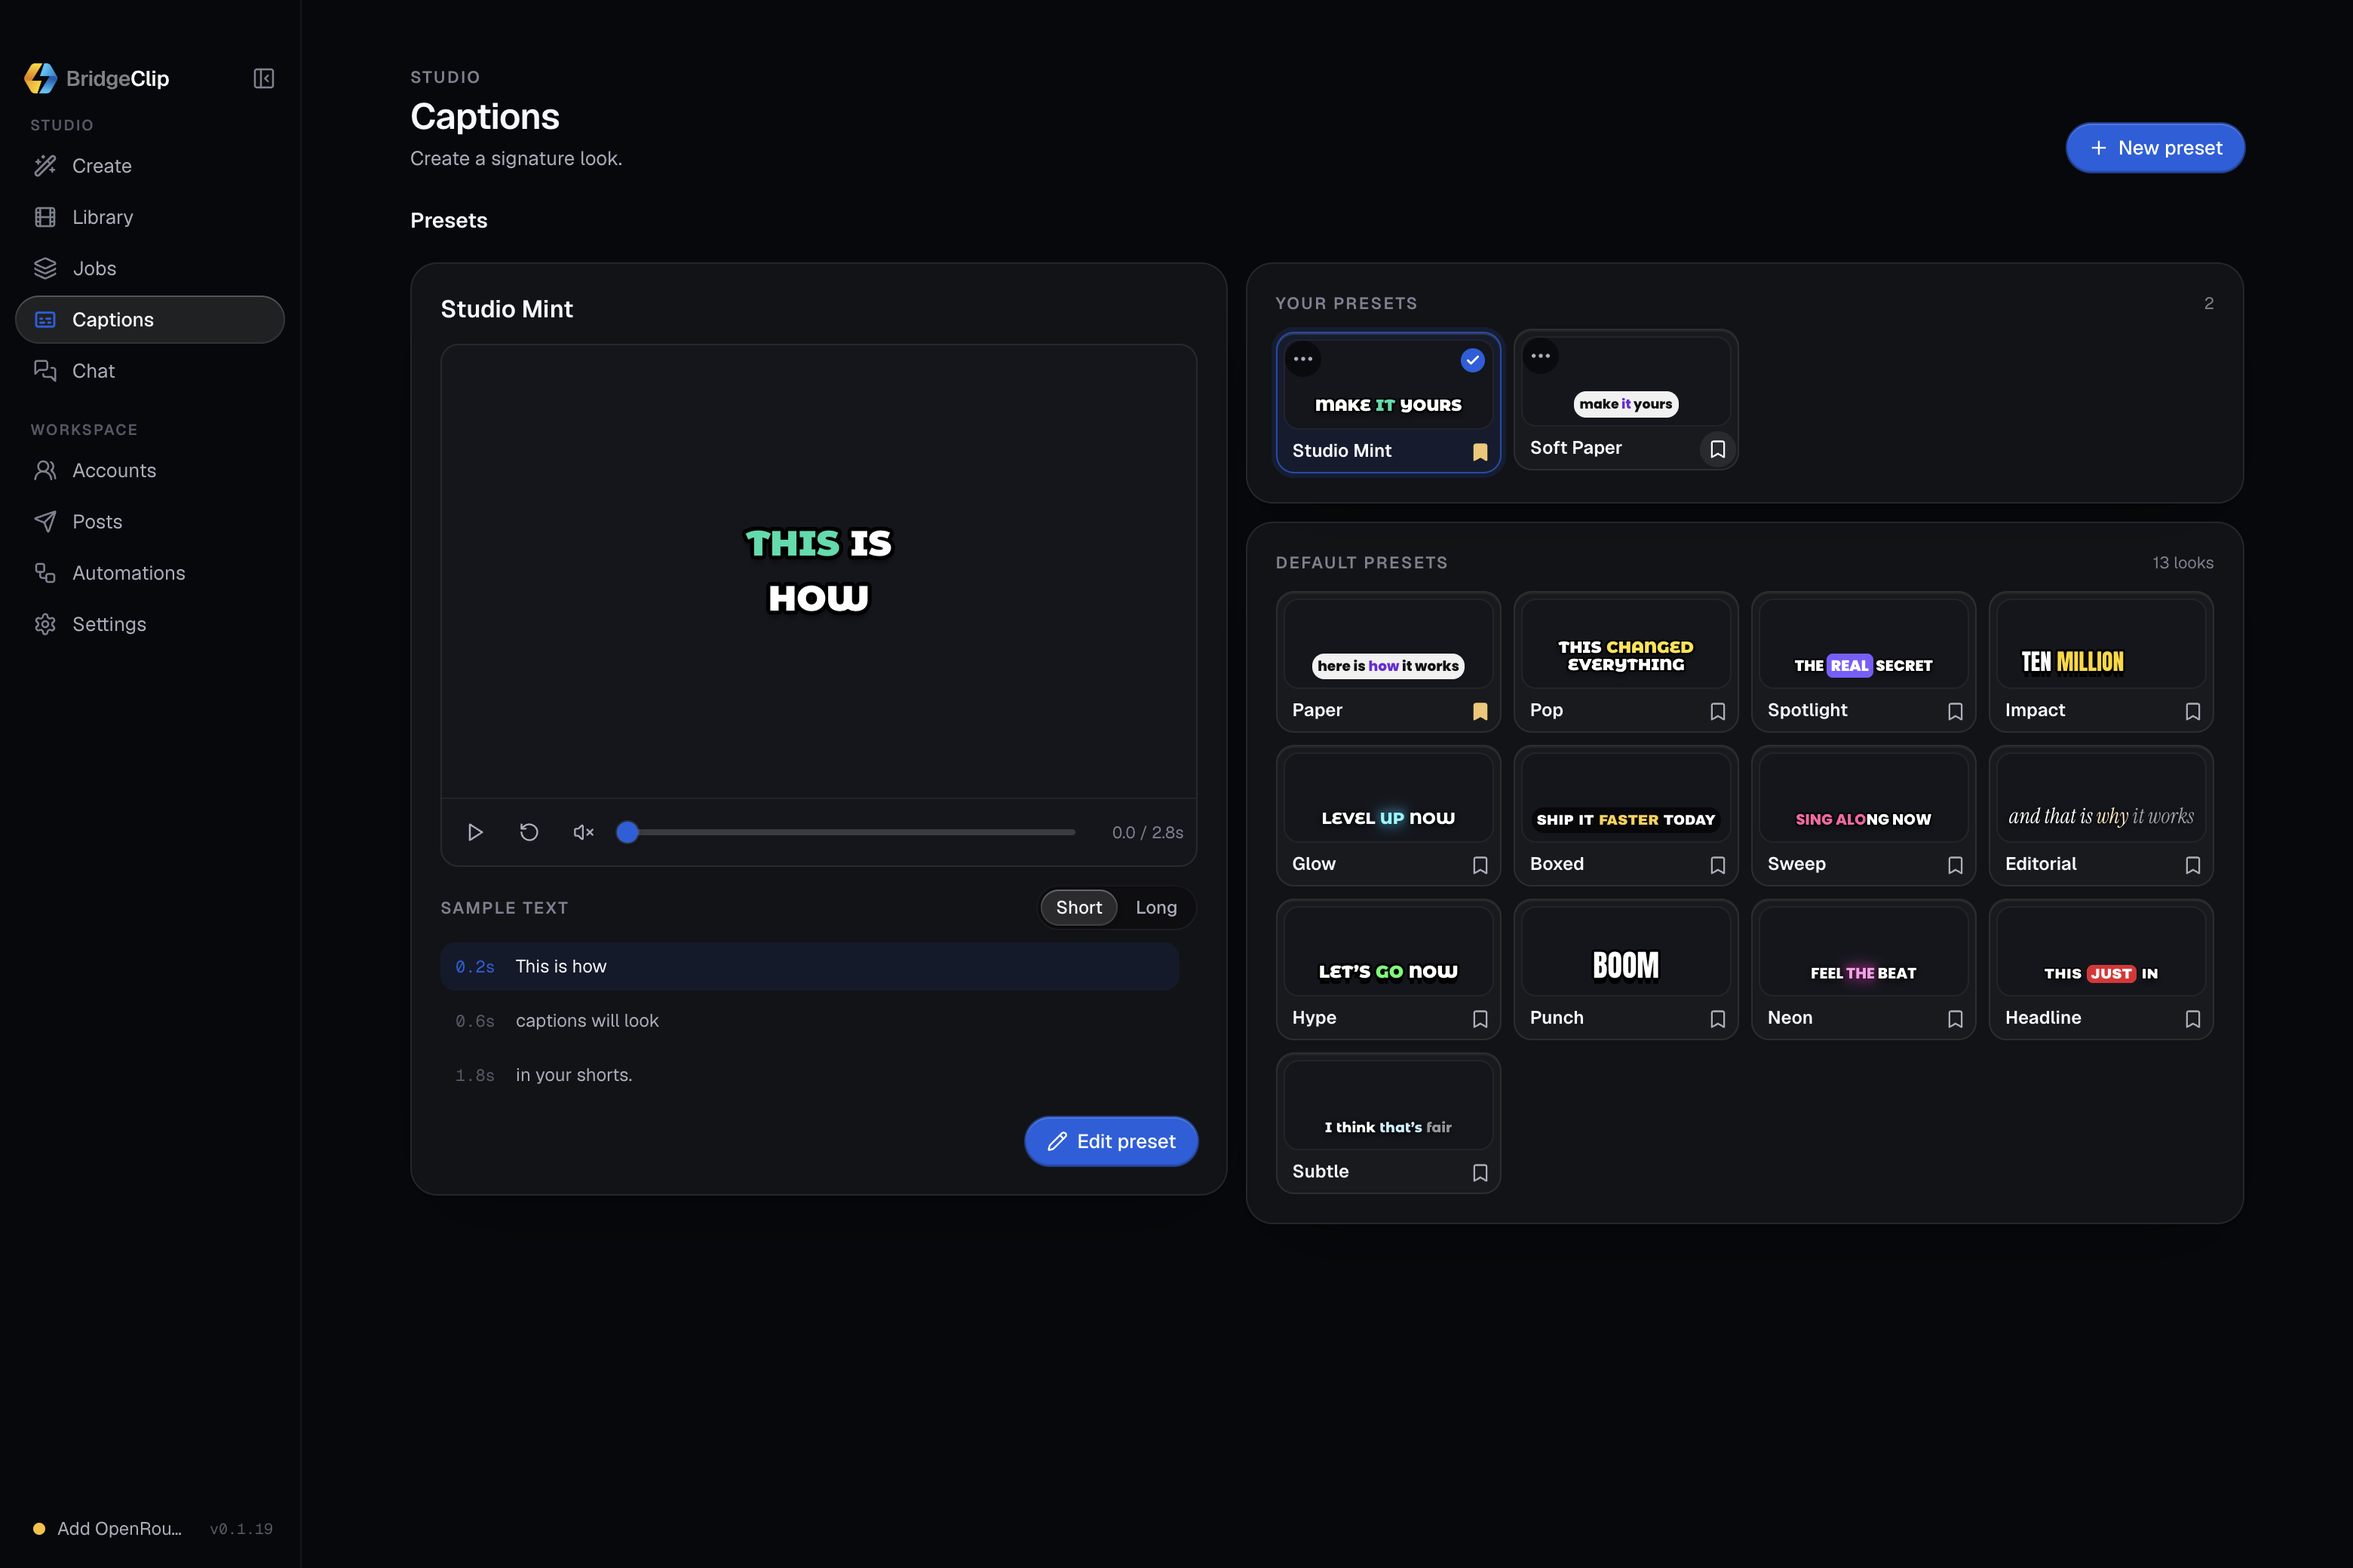
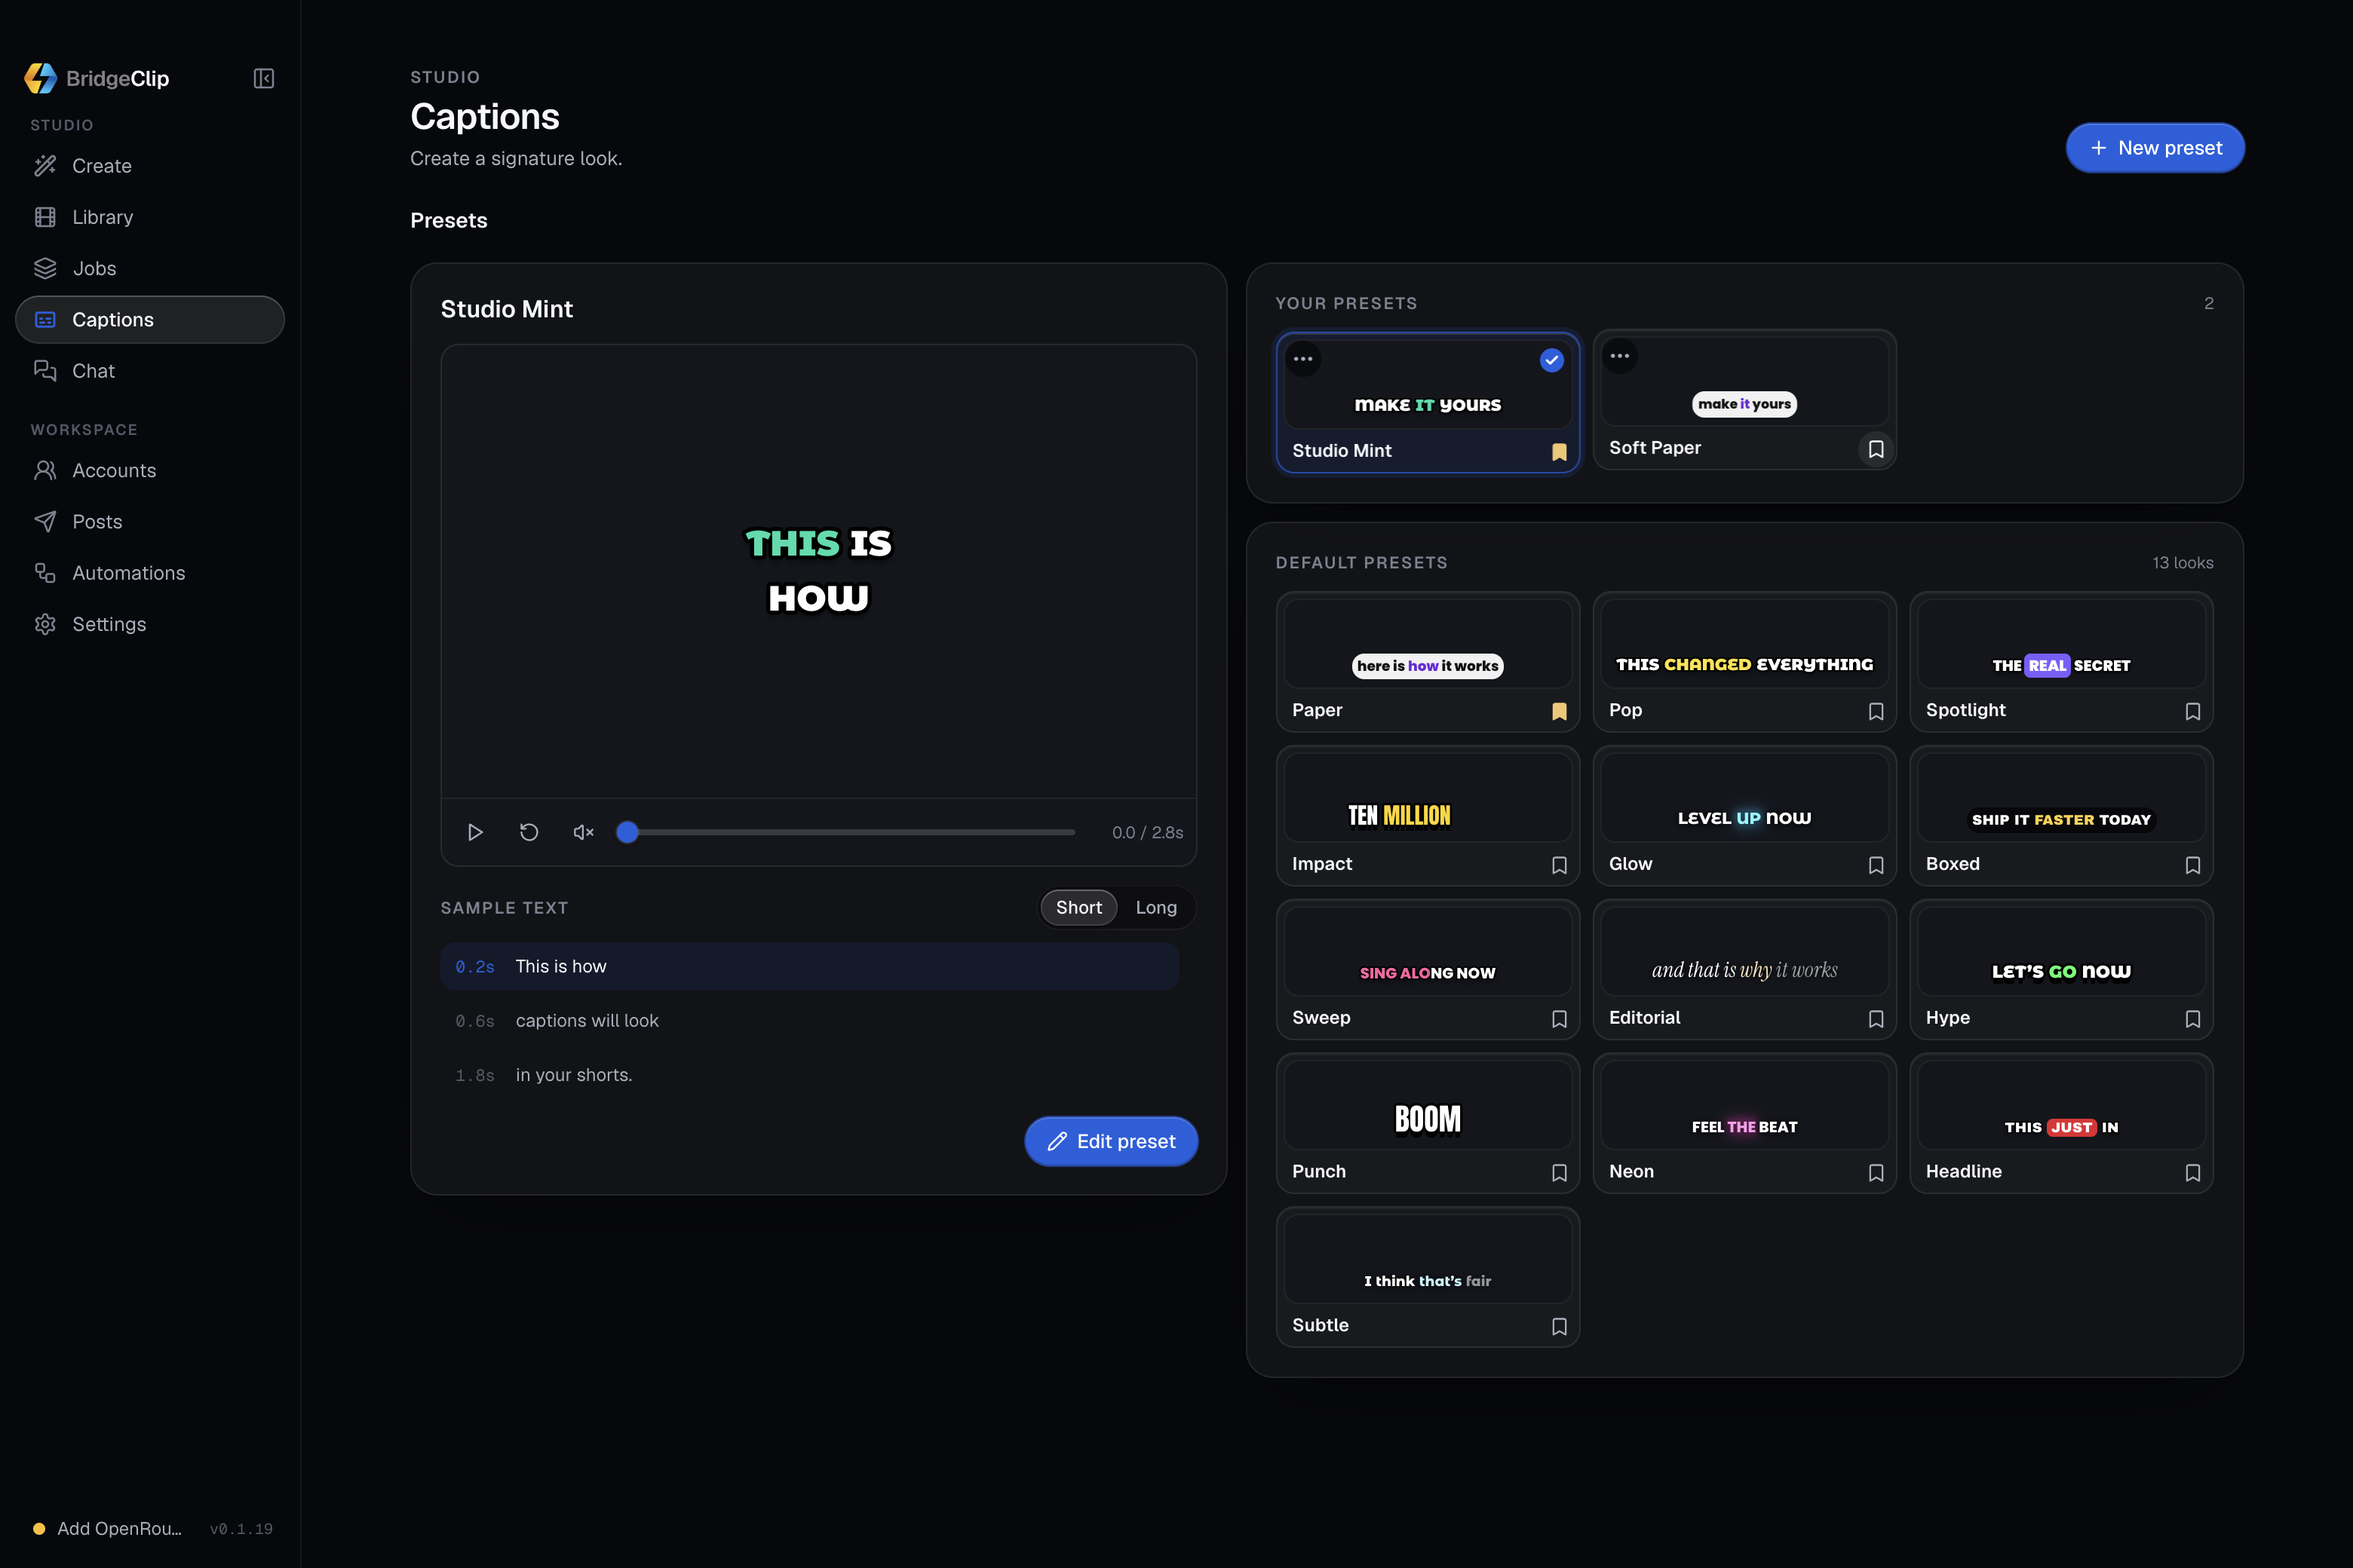
style(captions): show three preset cards per row

diff --git a/src/renderer/pages/captions.css b/src/renderer/pages/captions.css
@@ -8,7 +8,7 @@
 .caption-creation-steps button:disabled:not(.is-current) { opacity: .5; }
 .caption-step-line { width: 28px; height: 1px; background: rgb(255 255 255 / .1); }
 .caption-lab-layout { display: grid; min-width: 0; grid-template-columns: minmax(0, 1fr); gap: 12px; align-items: start; }
-.caption-base-grid { display: grid; grid-template-columns: repeat(auto-fill, minmax(120px, 1fr)); gap: 8px; }
+.caption-base-grid { display: grid; grid-template-columns: repeat(3, minmax(0, 1fr)); gap: 8px; }
 .caption-lab-preview { min-width: 0; }
 .caption-lab-preview [aria-label="Caption preview"] { margin-bottom: 0; }
 .caption-lab-preview .caption-preview-stage { height: 300px; }

diff --git a/docs/usage.md b/docs/usage.md
@@ -58,7 +58,7 @@ See [video speed](video-speed.md) for timing and export details.
 
 Open **Captions** in the sidebar or **Open captions lab** in Create’s Captions step. Your first preset starts with **Choose a base**: select a default, preview it, then choose **Customize**. Adjust its typeface, font size, text and highlight colors, word grouping, animation, outline, pill, glow or background. Enabling **Background** reveals separate **Horizontal padding** and **Vertical padding** sliders, plus opacity. New presets start with 24 horizontal padding. Both axes also apply to exports; existing presets keep their saved padding on each axis. Under **Sample text**, switch between **Short** and **Long** voice samples. Select a line to jump to that part of the recording; the line list updates with your caption settings. Pause or scrub the preview to compare timing. Previews start muted. Use the speaker button to hear the sample; your sound and sample choices carry across styles while the app is open.
 
-Give it a name and choose **Save preset** to save without leaving the editor. **Back to presets** opens **Your presets** as cards matching the default styles, with edit, duplicate and delete in each card’s **…** menu; future visits start there. Select a saved preset card to preview it without editing. The preview stays in the left column when you choose **Edit preset**; on compact windows it stays above the controls. **New preset** starts the base-selection wizard again. Leaving unsaved caption edits offers **Save & leave**, **Discard**, or **Keep editing**. Reloading or closing the app also asks whether to save. When opened from Create, **Save & use** returns to the same draft with the preset selected, or select a card and choose **Use preset** below the preview. Default styles and **Your styles** are separate in caption pickers. Each job and editor clip keeps its own style snapshot, so later library edits and deletions do not change an existing clip. A custom style can also be selected in the editor before baking.
+Give it a name and choose **Save preset** to save without leaving the editor. **Back to presets** opens **Your presets** as cards matching the default styles, three per row, with edit, duplicate and delete in each card’s **…** menu; future visits start there. Select a saved preset card to preview it without editing. The preview stays in the left column when you choose **Edit preset**; on compact windows it stays above the controls. **New preset** starts the base-selection wizard again. Leaving unsaved caption edits offers **Save & leave**, **Discard**, or **Keep editing**. Reloading or closing the app also asks whether to save. When opened from Create, **Save & use** returns to the same draft with the preset selected, or select a card and choose **Use preset** below the preview. Default styles and **Your styles** are separate in caption pickers. Each job and editor clip keeps its own style snapshot, so later library edits and deletions do not change an existing clip. A custom style can also be selected in the editor before baking.
 
 Default presets also appear below your saved cards. Select one to preview it, choose **Customize** to start a new preset, or **Use preset** to return it to Create. The initial base-selection wizard remains available when you have no custom presets.
 

diff --git a/docs/screenshots/studio-polish/README.md b/docs/screenshots/studio-polish/README.md
@@ -34,7 +34,7 @@ Choose a default as a starting point, then adjust your own preset with a live pr
 
 ![Editing a custom caption preset with two lines](captions-lab.png)
 
-Once presets are saved, the page opens with matching card grids and a New preset action. Select a custom preset card to preview it without opening an edit; its **…** menu offers edit, duplicate and delete. Default styles remain below Your presets, and both use the same preview on the left. Edit swaps the list for controls without moving or resizing that preview.
+Once presets are saved, the page opens with matching three-column card grids and a New preset action. Select a custom preset card to preview it without opening an edit; its **…** menu offers edit, duplicate and delete. Default styles remain below Your presets, and both use the same preview on the left. Edit swaps the list for controls without moving or resizing that preview.
 
 ![Custom presets and default styles with bookmarks](captions-cards.png)
 

diff --git a/CHANGELOG.md b/CHANGELOG.md
@@ -35,7 +35,7 @@ The format follows [Keep a Changelog](https://keepachangelog.com/en/1.1.0/). Mai
 
 ### Changed
 
-- **Your presets** on the Captions page uses the same cards as Default presets, with preview selection, bookmarks and a compact menu for edit, duplicate and delete.
+- **Your presets** on the Captions page uses the same cards as Default presets, with three cards per row, preview selection, bookmarks and a compact menu for edit, duplicate and delete.
 
 - Captions previews saved presets directly from their cards and keeps the preview in the same position while editing. Bookmarked styles move smoothly to the front of their list, and bookmark icons move with hovered cards.
 - Captions opens previews paused with sample text visible; press Play to hear or watch them. New clip setups select your first bookmarked caption style, falling back to Pop when there are no available bookmarks.
